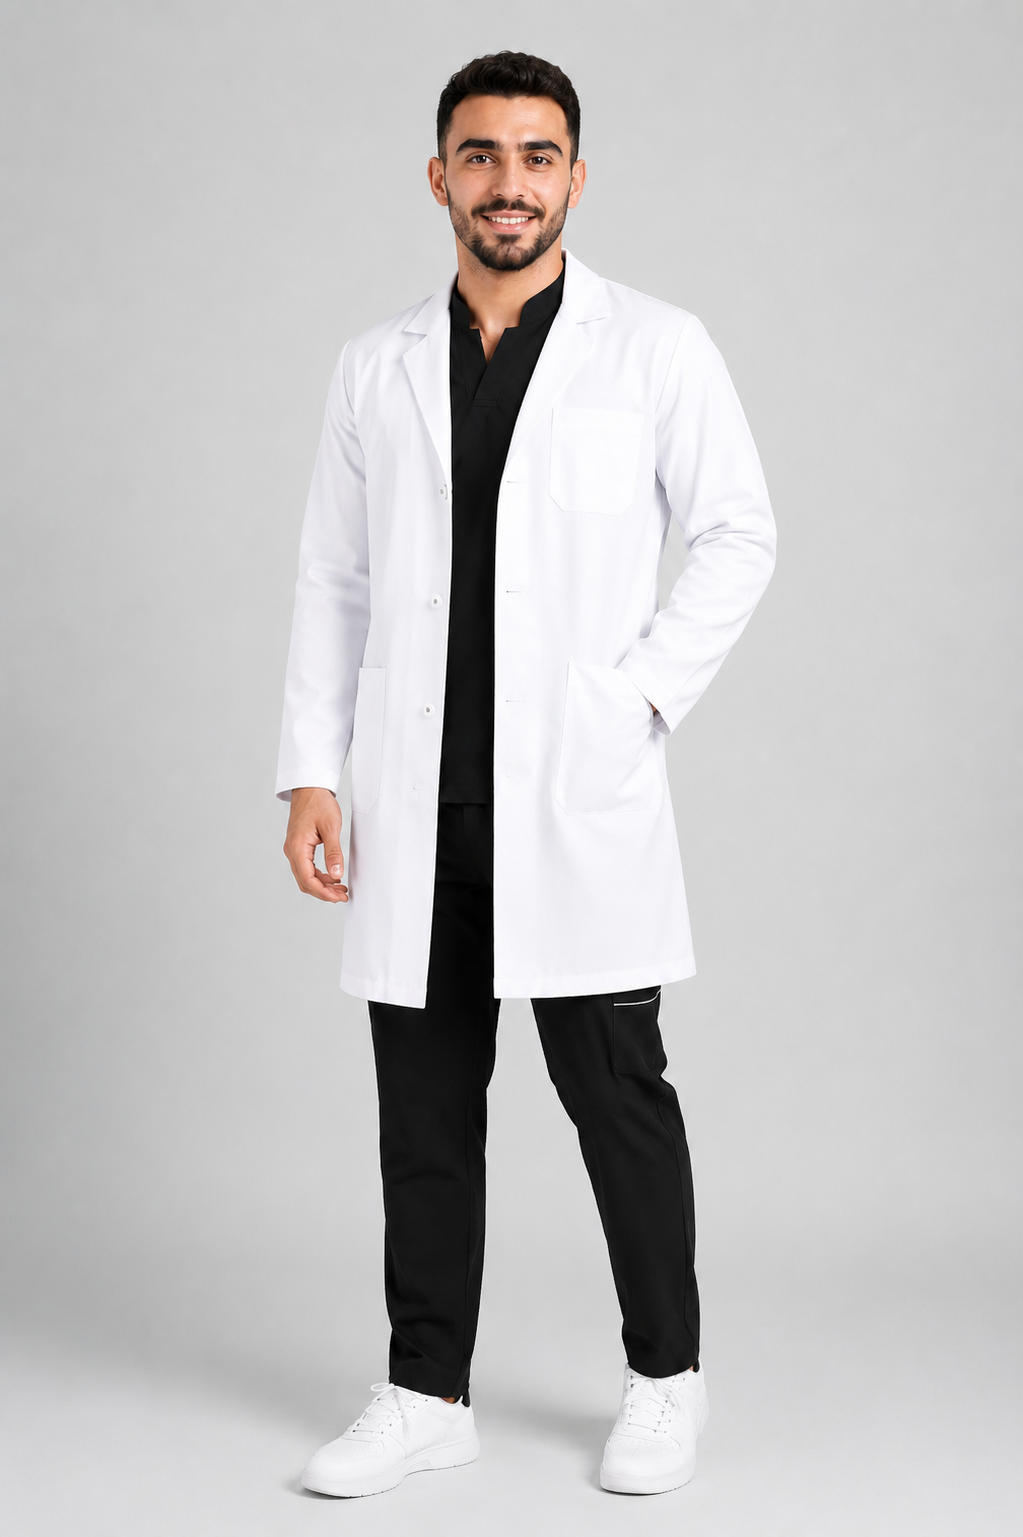
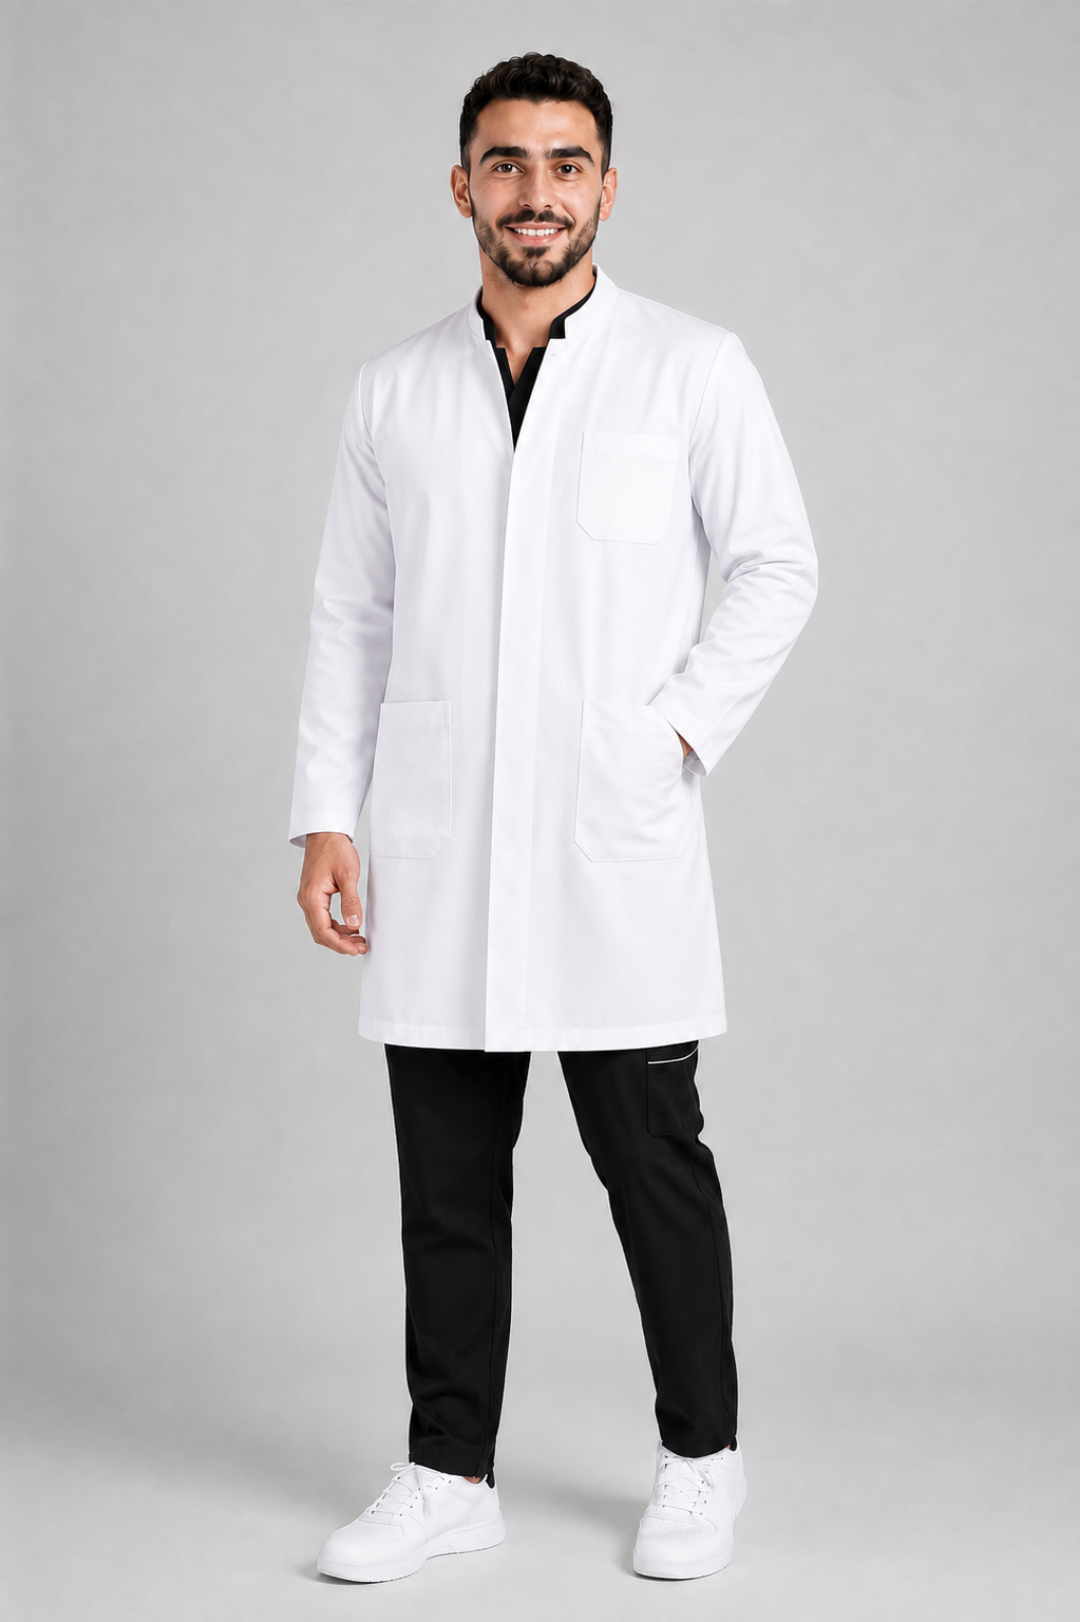
edit product coat

diff --git a/data/products.ts b/data/products.ts
@@ -4,8 +4,7 @@ import type { Product } from "@/types";
 const SCRUB_FABRIC =
   "Made from premium imported Angelica fabric — the finest quality available on the market. Fade-resistant and colorfast wash after wash, with a four-way stretch that moves with you for all-day comfort and effortless freedom of motion. Machine wash cold. Tumble dry low. Do not bleach. Iron on low heat.";
 const COAT_FABRIC =
-  "Crafted from premium gabardine fabric with a water-repellent, tear-resistant finish, engineered to stand up to a doctor's toughest shifts — including splashes and spills. Machine wash cold. Tumble dry low. Do not bleach.";
-
+  "Premium Rosalin fabric — soft, lightweight, breathable, and extremely comfortable for long shifts. Designed to feel comfortable without causing excessive heat. Free printing included. Backed by an 8-year warranty.";
 const STANDARD_SIZES = ["M", "L", "XL", "XXL"];
 
 // ─── Color Definitions ────────────────────────────────────────────────────────
@@ -95,11 +94,14 @@ const COAT_FEATURES = [
   "Three front button closure",
   "Two lower patch pockets + one chest pocket",
   "Notched lapel collar",
-  "Water-repellent, wrinkle-resistant fabric",
+  "Premium Rosalin fabric — soft, comfortable, and breathable",
+  "Designed to stay comfortable without feeling hot during long shifts",
+  "Free printing included",
+  "8-year warranty",
 ];
-const COAT_LONG =
-  "The Essential White Coat is the ultimate symbol of medical professionalism. Crafted from a premium gabardine blend with a water-repellent finish, it shields against everyday spills and splashes while offering a clean, authoritative look that stays comfortable across extended wear.";
 
+const COAT_LONG =
+  "The Essential White Coat combines a clean professional look with exceptional everyday comfort. Crafted from premium Rosalin fabric, it is soft, lightweight, and breathable, helping you stay comfortable without feeling hot during long shifts. Designed for doctors and medical professionals who want a polished look without sacrificing comfort. Free printing is included with every coat, backed by an 8-year warranty for long-lasting confidence.";
 // =============================================================================
 //  PRODUCTS ARRAY
 // =============================================================================
@@ -751,9 +753,9 @@ export const products: Product[] = [
     slug: "essential-white-coat",
     category: "tops",
     gender: "unisex",
-    price: 599,
+    price: 500,
     description:
-      "Classic knee-length white coat. Timeless, professional, and built to last.",
+      "Premium Rosalin white coat — extremely comfortable, breathable, free printing included, with an 8-year warranty.",
     longDescription: COAT_LONG,
     features: COAT_FEATURES,
     fabricAndCare: COAT_FABRIC,
@@ -761,16 +763,15 @@ export const products: Product[] = [
       {
         ...WHITE,
         images: [
+          img("/productImage/coat/banner coat.png"),
           img("/productImage/coat/font coat.png"),
+          img("/productImage/coat/girl coat.png"),
           img("/productImage/coat/back coat.png"),
         ],
       },
     ],
     sizes: STANDARD_SIZES,
-    images: [
-      img("/productImage/coat/font coat.png"),
-      img("/productImage/coat/back coat.png"),
-    ],
+    images: [img("/productImage/coat/font coat.png")],
     isBestSeller: true,
     isNewArrival: false,
     stock: 50,
@@ -779,42 +780,42 @@ export const products: Product[] = [
 
   // ── THE dentist  WHITE COAT ──────────────────────────────────────────────
 
-  {
-    id: "dentist-coat",
-    name: "The dentist Dental Coat",
-    slug: "dentist-dental-coat",
-    category: "tops",
-    gender: "unisex",
-    price: 599,
+  // {
+  //   id: "dentist-coat",
+  //   name: "The dentist Dental Coat",
+  //   slug: "dentist-dental-coat",
+  //   category: "tops",
+  //   gender: "unisex",
+  //   price: 599,
 
-    description:
-      "Modern hip-length dental coat designed for comfort, mobility, and a clean professional appearance.",
+  //   description:
+  //     "Modern hip-length dental coat designed for comfort, mobility, and a clean professional appearance.",
 
-    longDescription: DENTAL_COAT_LONG,
+  //   longDescription: DENTAL_COAT_LONG,
 
-    features: DENTAL_COAT_FEATURES,
+  //   features: DENTAL_COAT_FEATURES,
 
-    fabricAndCare: COAT_FABRIC,
+  //   fabricAndCare: COAT_FABRIC,
 
-    colors: [
-      {
-        ...WHITE,
-        images: [
-          img("/productImage/dentist is coat/front coat.jpeg"),
-          img("/productImage/dentist is coat/back coat.jpeg"),
-        ],
-      },
-    ],
+  //   colors: [
+  //     {
+  //       ...WHITE,
+  //       images: [
+  //         img("/productImage/dentist is coat/front coat.jpeg"),
+  //         img("/productImage/dentist is coat/back coat.jpeg"),
+  //       ],
+  //     },
+  //   ],
 
-    sizes: STANDARD_SIZES,
+  //   sizes: STANDARD_SIZES,
 
-    images: [img("/productImage/dentist is coat/front coat.jpeg")],
+  //   images: [img("/productImage/dentist is coat/front coat.jpeg")],
 
-    isBestSeller: true,
-    isNewArrival: true,
-    stock: 50,
-    createdAt: "2026-07-17",
-  },
+  //   isBestSeller: true,
+  //   isNewArrival: true,
+  //   stock: 50,
+  //   createdAt: "2026-07-17",
+  // },
 ];
 
 // ─── Helpers ──────────────────────────────────────────────────────────────────

diff --git a/components/product/SizeGuideModal.tsx b/components/product/SizeGuideModal.tsx
@@ -35,32 +35,32 @@ const SCRUB_SIZE_DATA = [
 
 const COAT_SIZE_DATA = [
   {
+    size: "S",
+    chestWidth: "58 cm",
+    coatCircumference: "116 cm",
+    suitableHeight: "160–170 cm",
+    approximateWeight: "50–65 kg",
+  },
+  {
     size: "M",
-    chest: "56 cm",
-    length: "92 cm",
-    sleeve: "62 cm",
-    shoulder: "45 cm",
+    chestWidth: "60 cm",
+    coatCircumference: "120 cm",
+    suitableHeight: "165–175 cm",
+    approximateWeight: "60–75 kg",
   },
   {
     size: "L",
-    chest: "58 cm",
-    length: "94 cm",
-    sleeve: "63 cm",
-    shoulder: "46 cm",
+    chestWidth: "65 cm",
+    coatCircumference: "130 cm",
+    suitableHeight: "170–180 cm",
+    approximateWeight: "75–95 kg",
   },
   {
     size: "XL",
-    chest: "60 cm",
-    length: "96 cm",
-    sleeve: "64 cm",
-    shoulder: "47 cm",
-  },
-  {
-    size: "XXL",
-    chest: "62 cm",
-    length: "98 cm",
-    sleeve: "65 cm",
-    shoulder: "48 cm",
+    chestWidth: "70 cm",
+    coatCircumference: "140 cm",
+    suitableHeight: "175–190 cm",
+    approximateWeight: "90–115 kg",
   },
 ];
 
@@ -114,10 +114,10 @@ export default function SizeGuideModal({ open, onClose }: Props) {
               {isCoat ? (
                 <tr>
                   <th>Size</th>
-                  <th>Chest</th>
-                  <th>Length</th>
-                  <th>Sleeve</th>
-                  <th>Shoulder</th>
+                  <th>Chest Width</th>
+                  <th>Coat Circumference</th>
+                  <th>Suitable Height</th>
+                  <th>Approx. Weight</th>
                 </tr>
               ) : (
                 <tr>
@@ -133,22 +133,44 @@ export default function SizeGuideModal({ open, onClose }: Props) {
               {isCoat
                 ? COAT_SIZE_DATA.map((row) => (
                     <tr key={row.size} className="border-b border-gray-100">
-                      <td className="py-3 pr-4 font-semibold text-center">{row.size}</td>
-                      <td className="py-3 pr-4 text-gray-600 text-center">{row.chest}</td>
-                      <td className="py-3 pr-4 text-gray-600 text-center">{row.length}</td>
-                      <td className="py-3 pr-4 text-gray-600 text-center">{row.sleeve}</td>
-                      <td className="py-3 text-gray-600 text-center">{row.shoulder}</td>
+                      <td className="py-3 pr-4 font-semibold text-center">
+                        {row.size}
+                      </td>
+
+                      <td className="py-3 pr-4 text-gray-600 text-center">
+                        {row.chestWidth}
+                      </td>
+
+                      <td className="py-3 pr-4 text-gray-600 text-center">
+                        {row.coatCircumference}
+                      </td>
+
+                      <td className="py-3 pr-4 text-gray-600 text-center">
+                        {row.suitableHeight}
+                      </td>
+
+                      <td className="py-3 text-gray-600 text-center">
+                        {row.approximateWeight}
+                      </td>
                     </tr>
                   ))
                 : SCRUB_SIZE_DATA.map((row) => (
                     <tr key={row.size} className="border-b border-gray-100">
-                      <td className="py-3 pr-4 font-semibold text-center">{row.size}</td>
-                      <td className="py-3 pr-4 text-gray-600 text-center">{row.chest}</td>
-                      <td className="py-3 pr-4 text-gray-600 text-center">{row.waist}</td>
+                      <td className="py-3 pr-4 font-semibold text-center">
+                        {row.size}
+                      </td>
+                      <td className="py-3 pr-4 text-gray-600 text-center">
+                        {row.chest}
+                      </td>
+                      <td className="py-3 pr-4 text-gray-600 text-center">
+                        {row.waist}
+                      </td>
                       <td className="py-3 pr-4 text-gray-600 text-center">
                         {row.topLength}
                       </td>
-                      <td className="py-3 text-gray-600 text-center">{row.pantsLength}</td>
+                      <td className="py-3 text-gray-600 text-center">
+                        {row.pantsLength}
+                      </td>
                     </tr>
                   ))}
             </tbody>

diff --git a/app/shop/[slug]/page.tsx b/app/shop/[slug]/page.tsx
@@ -56,7 +56,7 @@ export default function ProductDetail() {
   const thumbImages = [
     ...(defaultColor.images.length > 1 ? defaultColor.images.slice(1) : []),
     ...product.images.filter((i) => i !== defaultColor.images[0]),
-  ].slice(0, 3);
+  ];
 
   const updateSizeQty = (size: string, qty: number) => {
     setSizeQuantities((prev) => ({ ...prev, [size]: Math.max(0, qty) }));

diff --git a/app/checkout/page.tsx b/app/checkout/page.tsx
@@ -279,7 +279,7 @@ export default function Checkout() {
                 Placing Order...
               </>
             ) : (
-              <>Place Order · {formatEGP(total)}</>
+              <>Place Order</>
             )}
           </button>
         </form>
